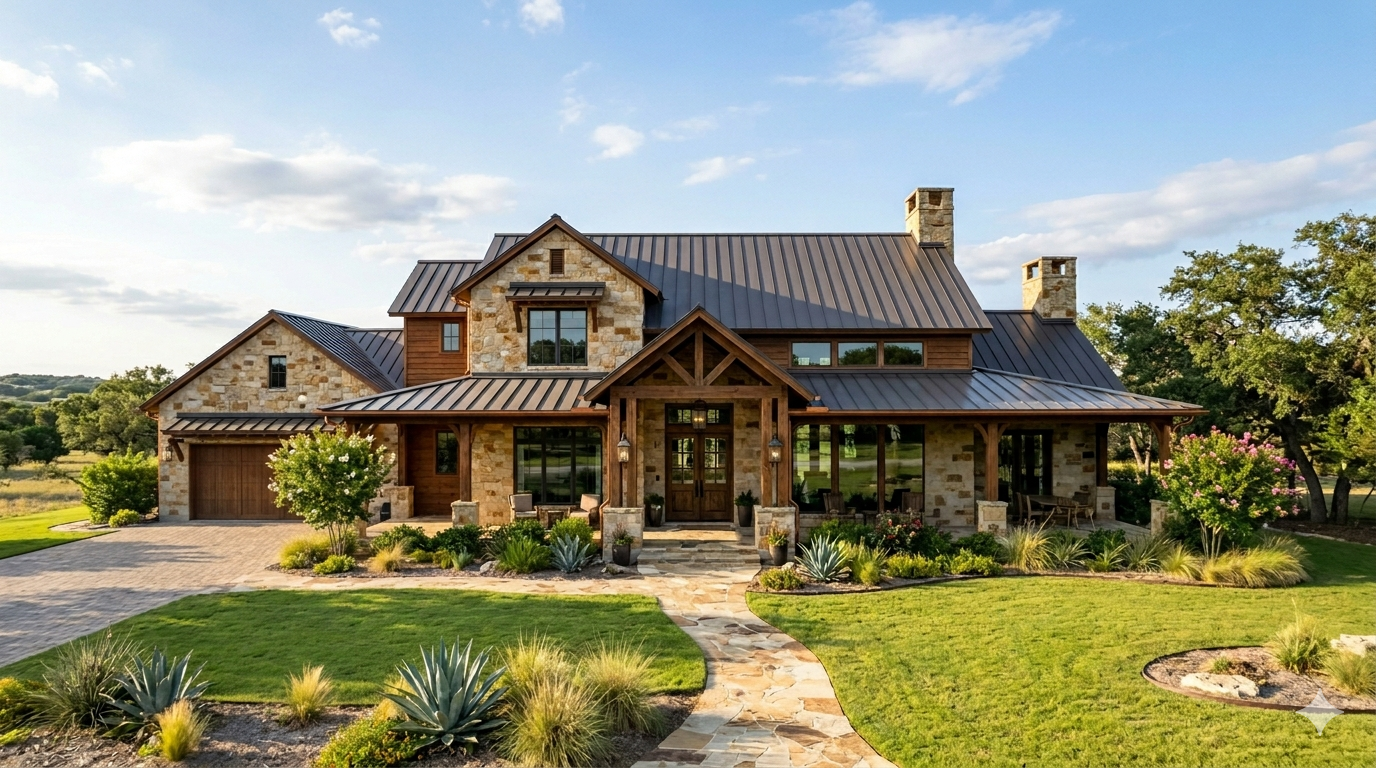
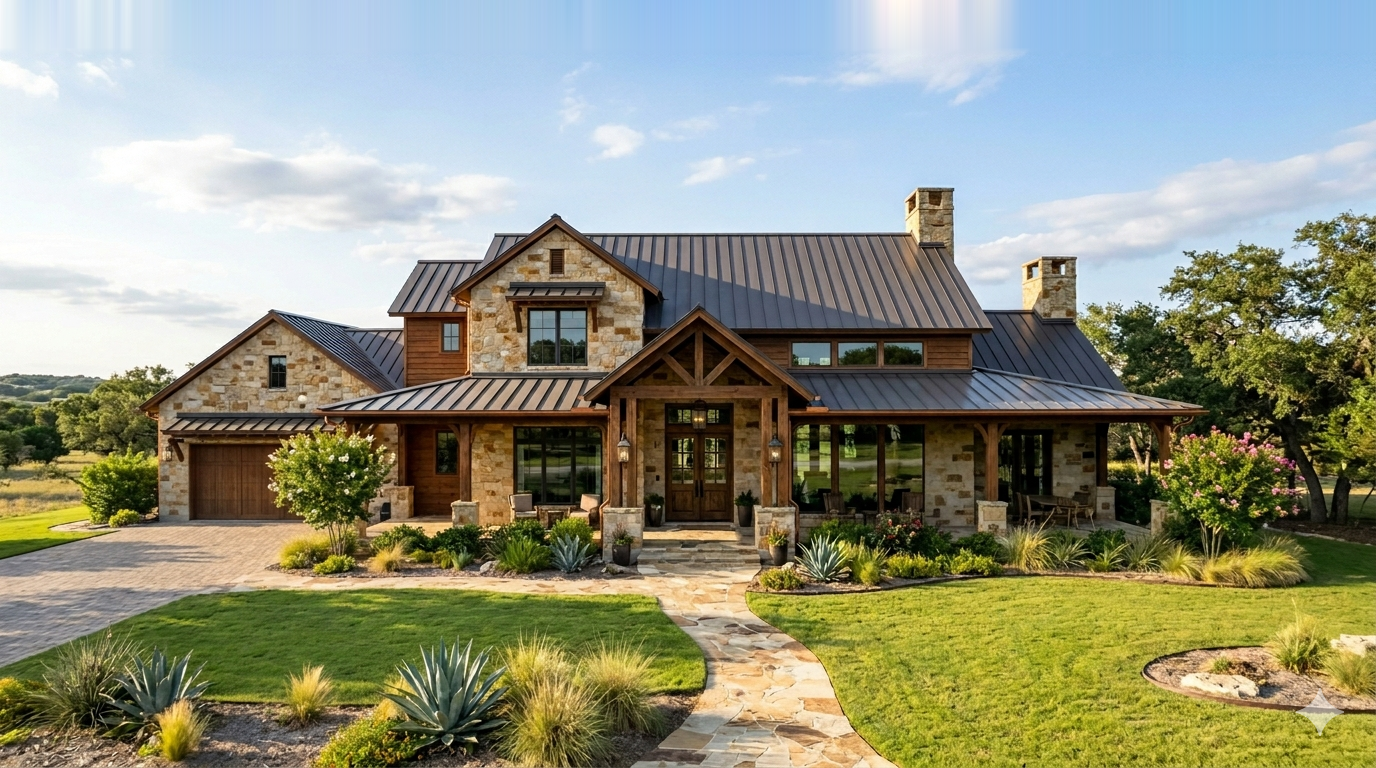
Remove watermark from hero image, restore center position

diff --git a/css/styles.css b/css/styles.css
@@ -196,7 +196,7 @@ h2 { font-size: clamp(2rem, 5vw, 3rem); margin-bottom: 16px; }
   display: flex;
   align-items: center;
   position: relative;
-  background: url('../images/hero-home.png') center 65%/cover no-repeat;
+  background: url('../images/hero-home.png') center/cover no-repeat;
   padding-top: 72px;
 }
 .hero-overlay {
